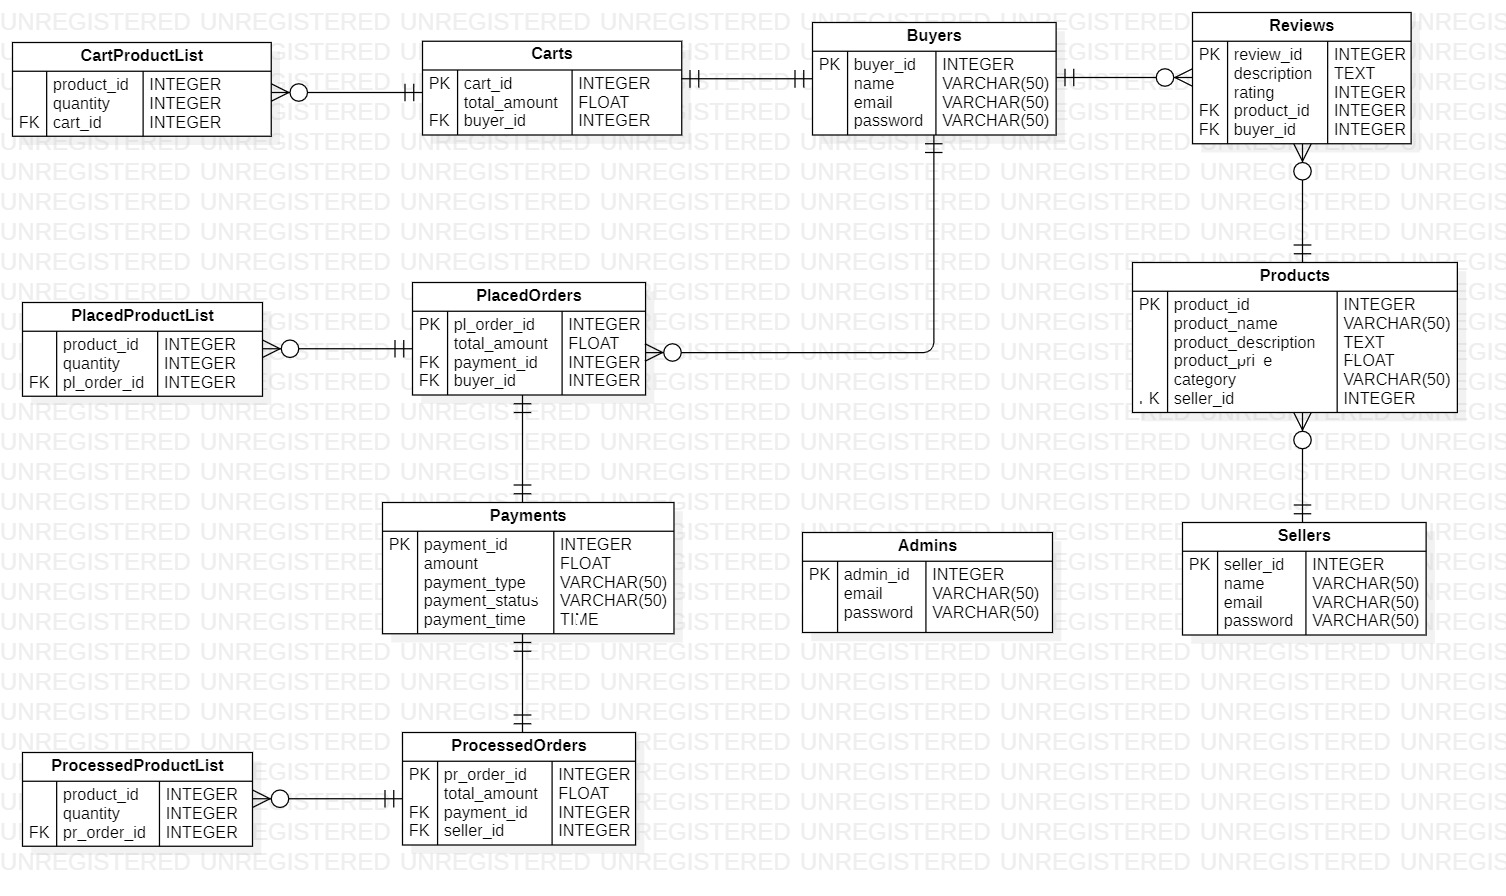
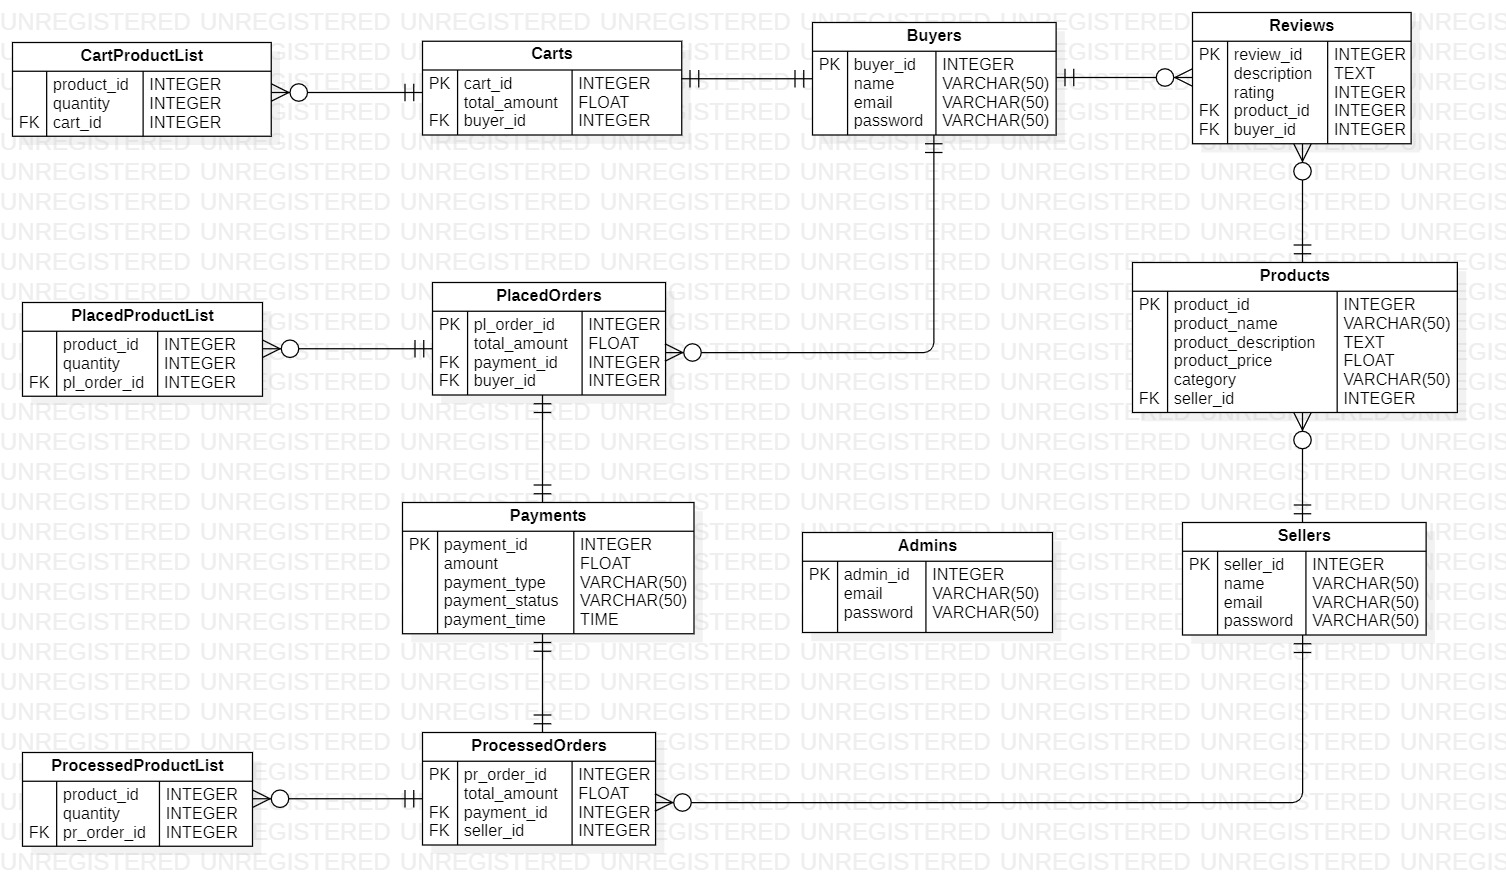
Added the UML files required for the project

Changed region(s): [[0.2497, 0.3125, 0.4681, 0.9375]]

diff --git a/README.md b/README.md
@@ -1,1 +1,3 @@
 # Online-Marketplace-for-Digital-Products
+
+- Have designed Use Case, ER, Class and Sequence diagrams for the project
